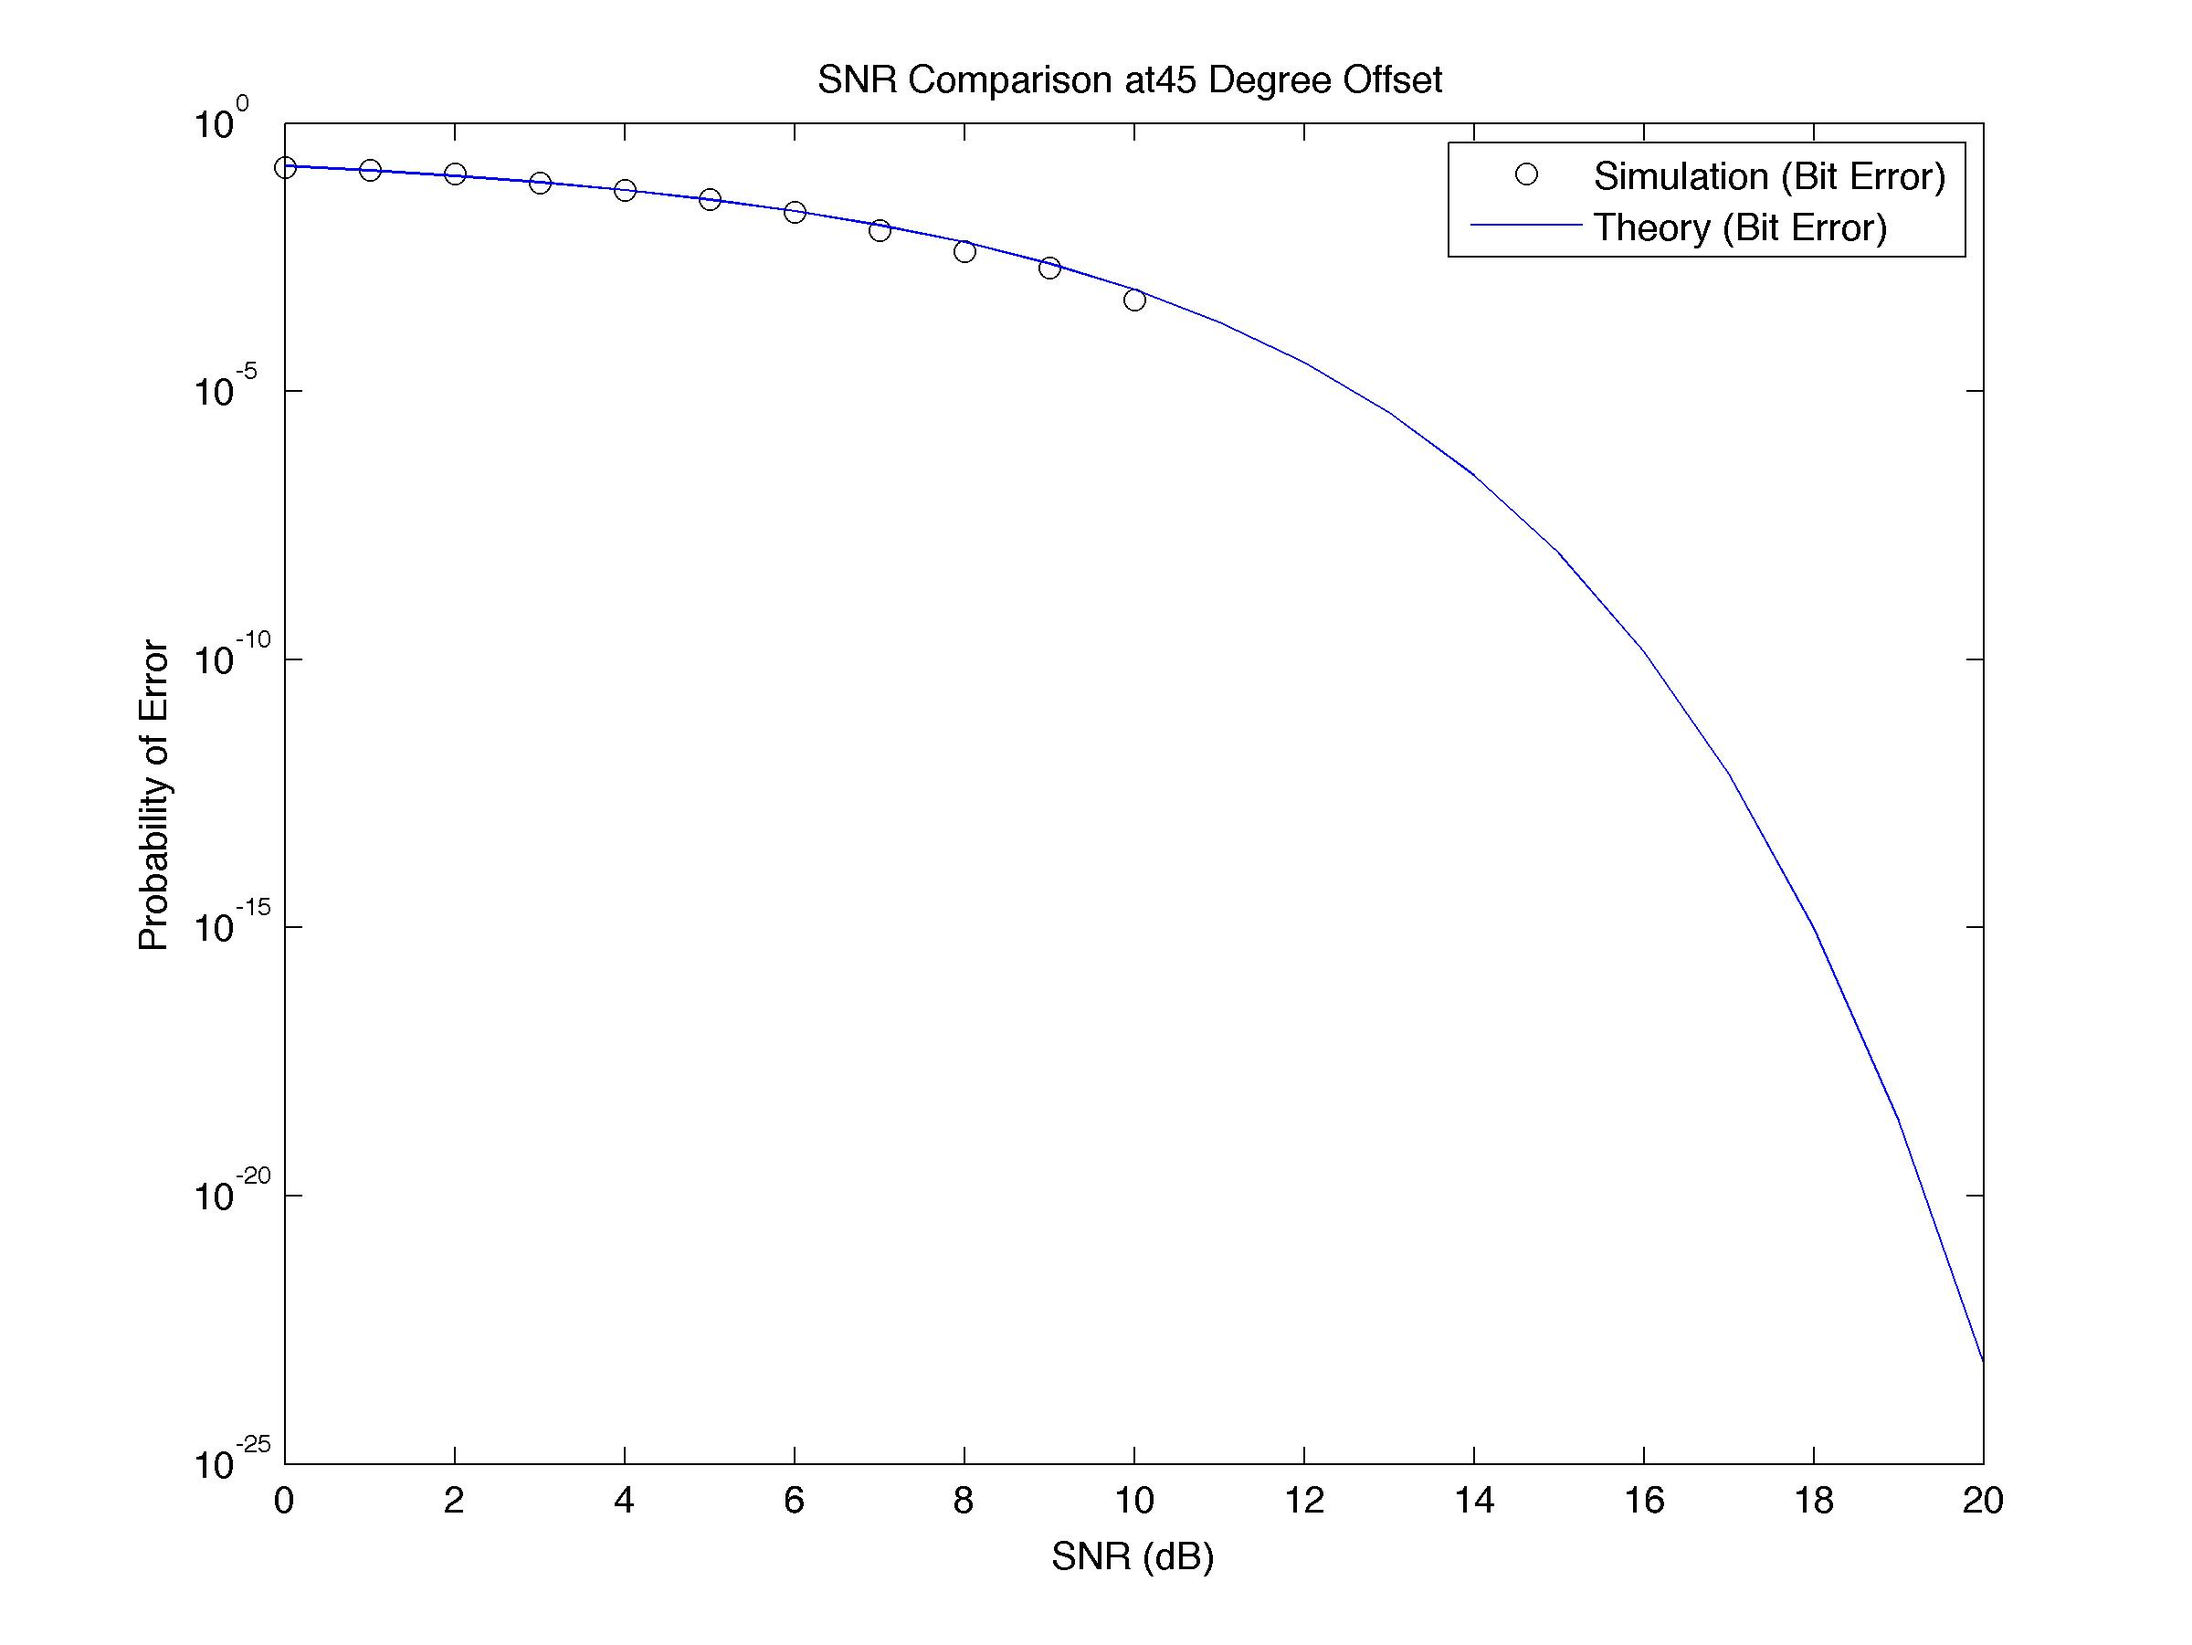
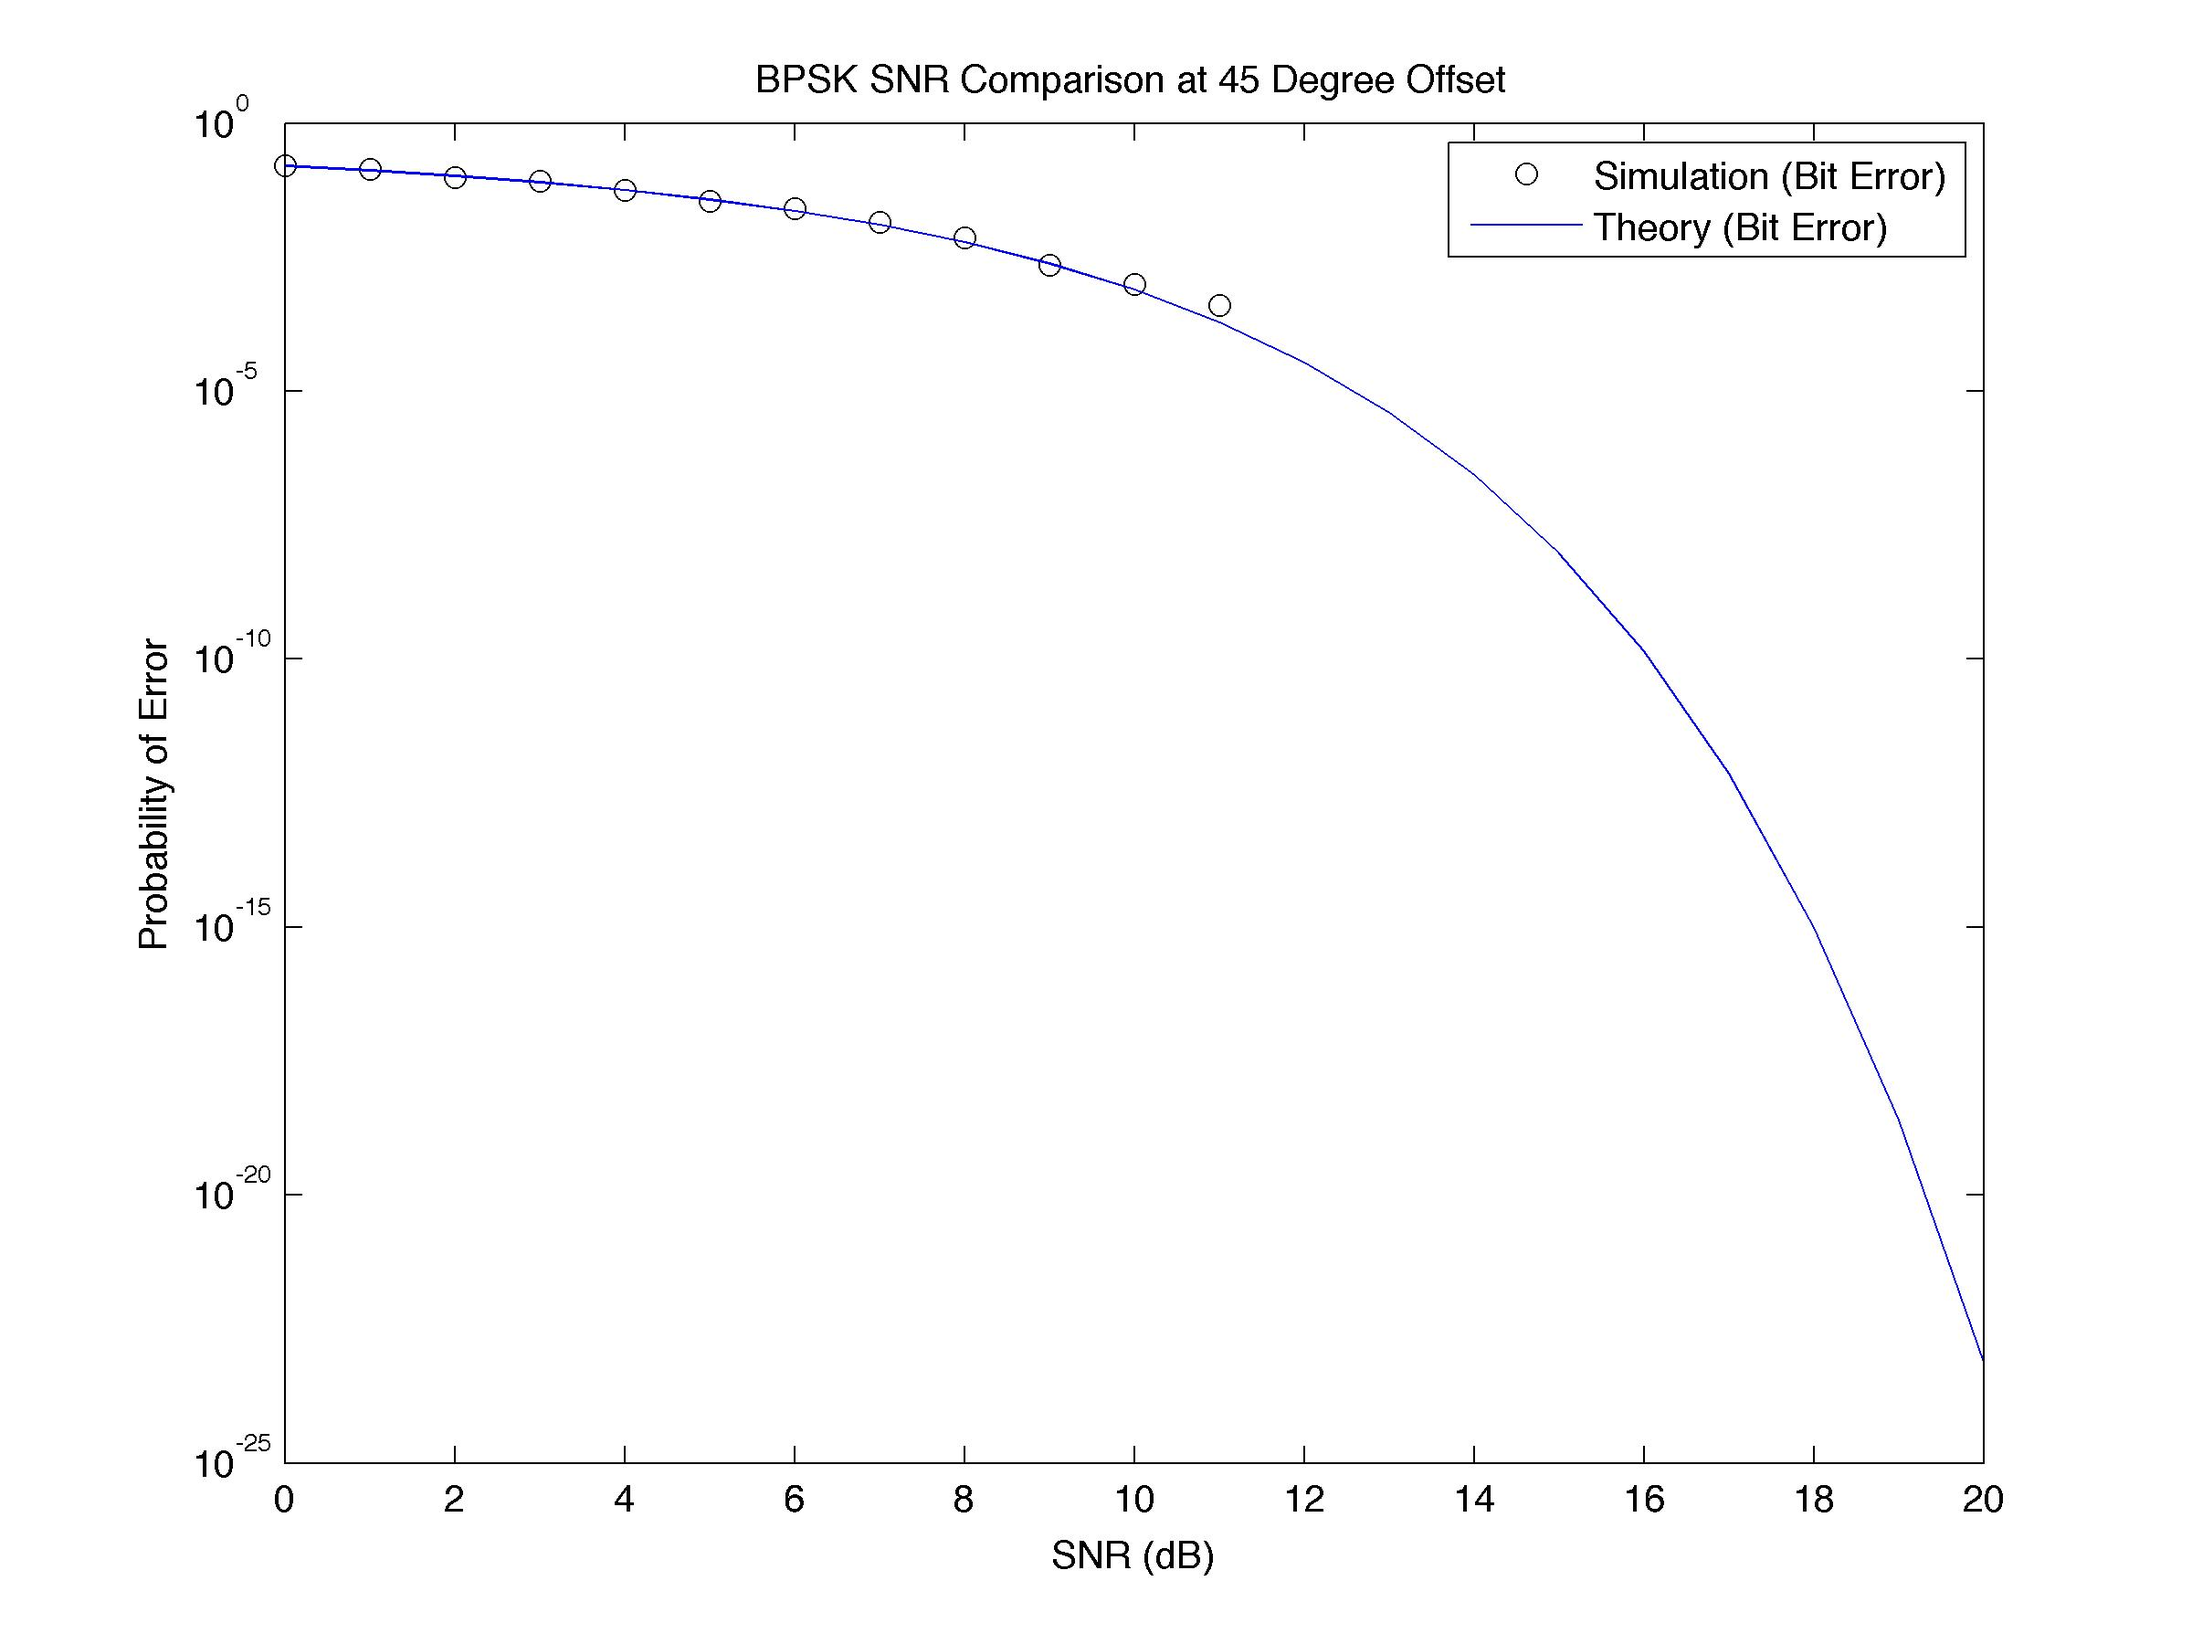
new plots again

Changed region(s): [[0.3438, 0.0311, 0.6875, 0.0622], [0.375, 0.1244, 0.4062, 0.1556]]

diff --git a/step2/step2_sim_phase_bpsk.m b/step2/step2_sim_phase_bpsk.m
@@ -3,7 +3,7 @@
 close all;
 clear all;
 %Start by setting the initial variables
-N= 2000; %number of bits generated
+N= 10000; %number of bits generated
 overSampleSize = 4;
 rollOffFactor = 0.25;
 Ts = 1/10^6; %Symbol period (1Mbps)
@@ -78,7 +78,8 @@ for k=1:length(phase_offsets)
     semilogy(SNR,ber_theo, 'b');
     ylabel('Probability of Error');
     xlabel('SNR (dB)');
-    title(strcat('SNR Comparison at ', num2str(phase_offsets(k)), ' Degree Offset'));
+    title(['BPSK SNR Comparison at ', num2str(phase_offsets(k)),...
+        ' Degree Offset']);
     legend('Simulation (Bit Error)','Theory (Bit Error)');
     % save the BER graph
     print(h,'-djpeg','-r300',strcat('bpSNRpo',num2str(k)));

diff --git a/step2/step2_sim_phase_qpsk.m b/step2/step2_sim_phase_qpsk.m
@@ -85,9 +85,9 @@ for y=1:length(phase_offsets)
     %plot theoretical/simulation BER vs SNR graph
     g=figure;
     
-    semilogy(SNR,ser,'bo');
+    semilogy(SNR,ser,'ko');
     hold on;
-    semilogy(SNR,ser_theo,'g');
+    semilogy(SNR,ser_theo,'b');
     ylabel('Probability of Error');
     xlabel('Signal To Noise (dB)');
     title(['QPSK SNR Comparison at ',...
